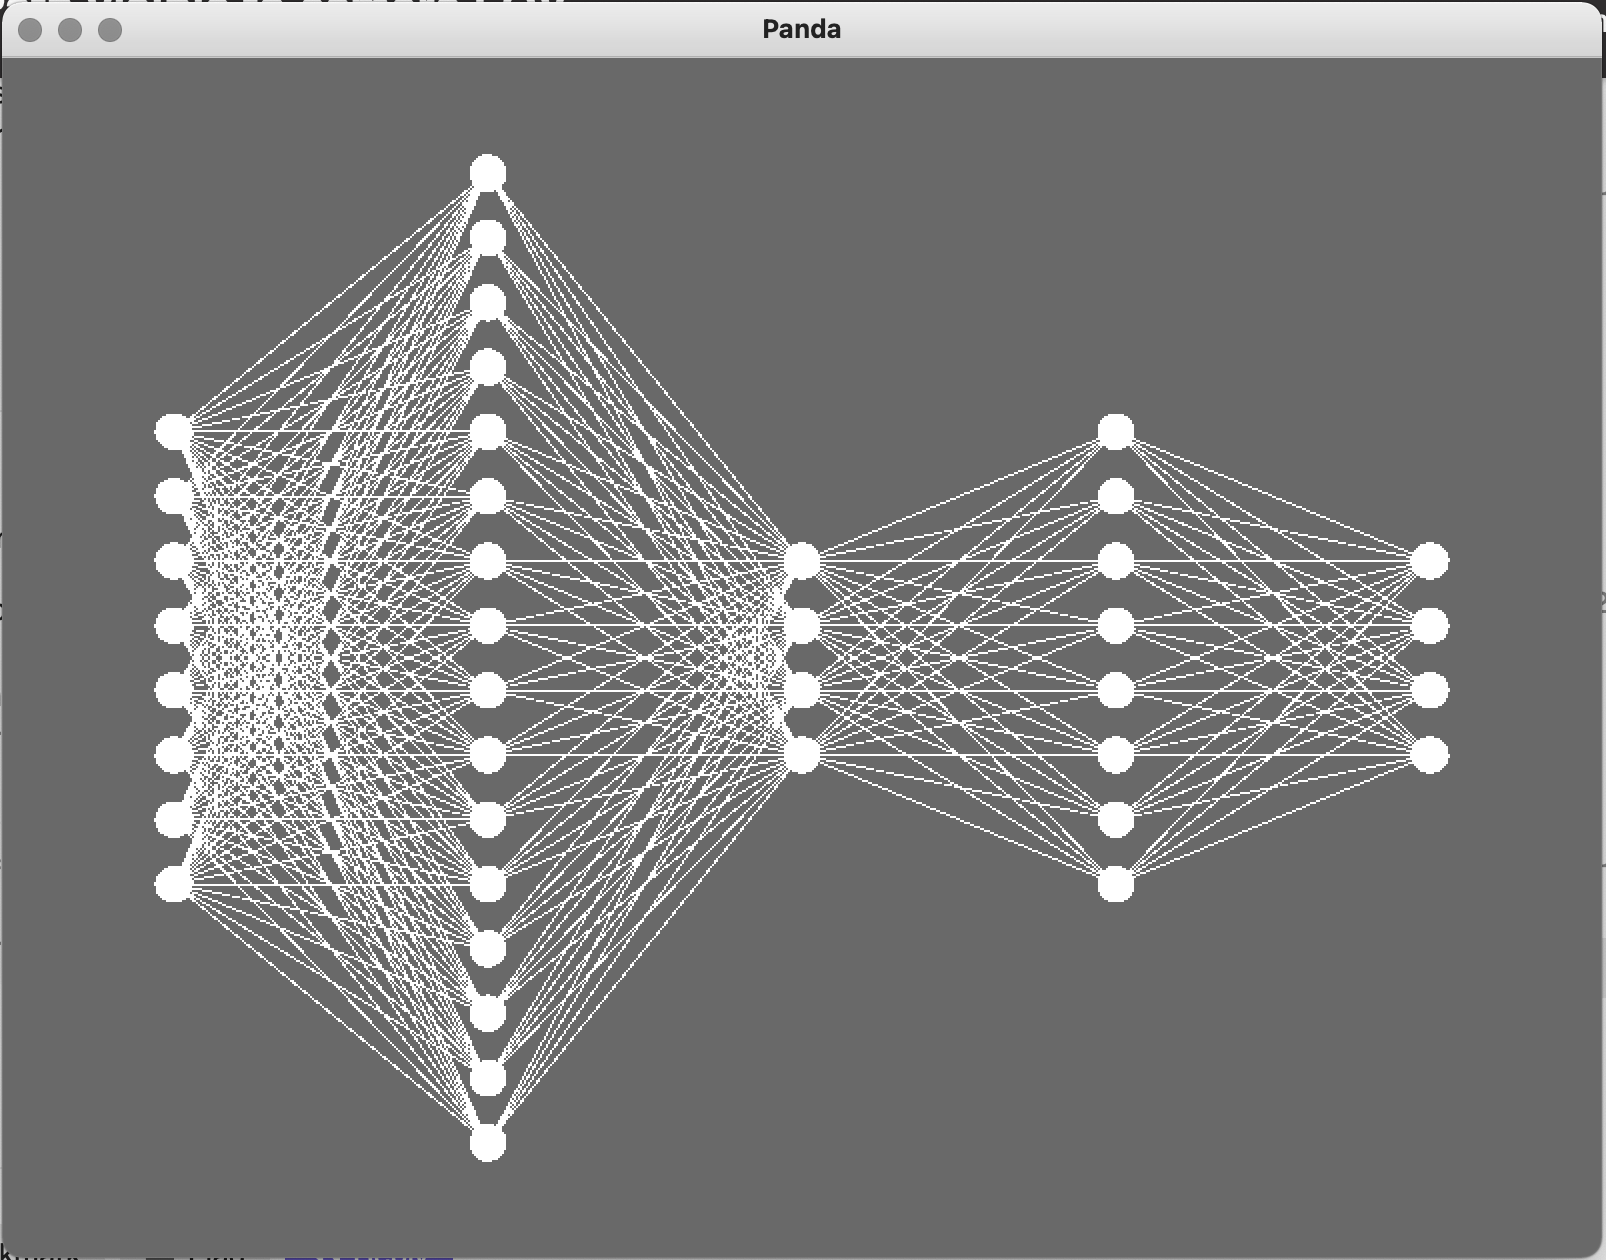
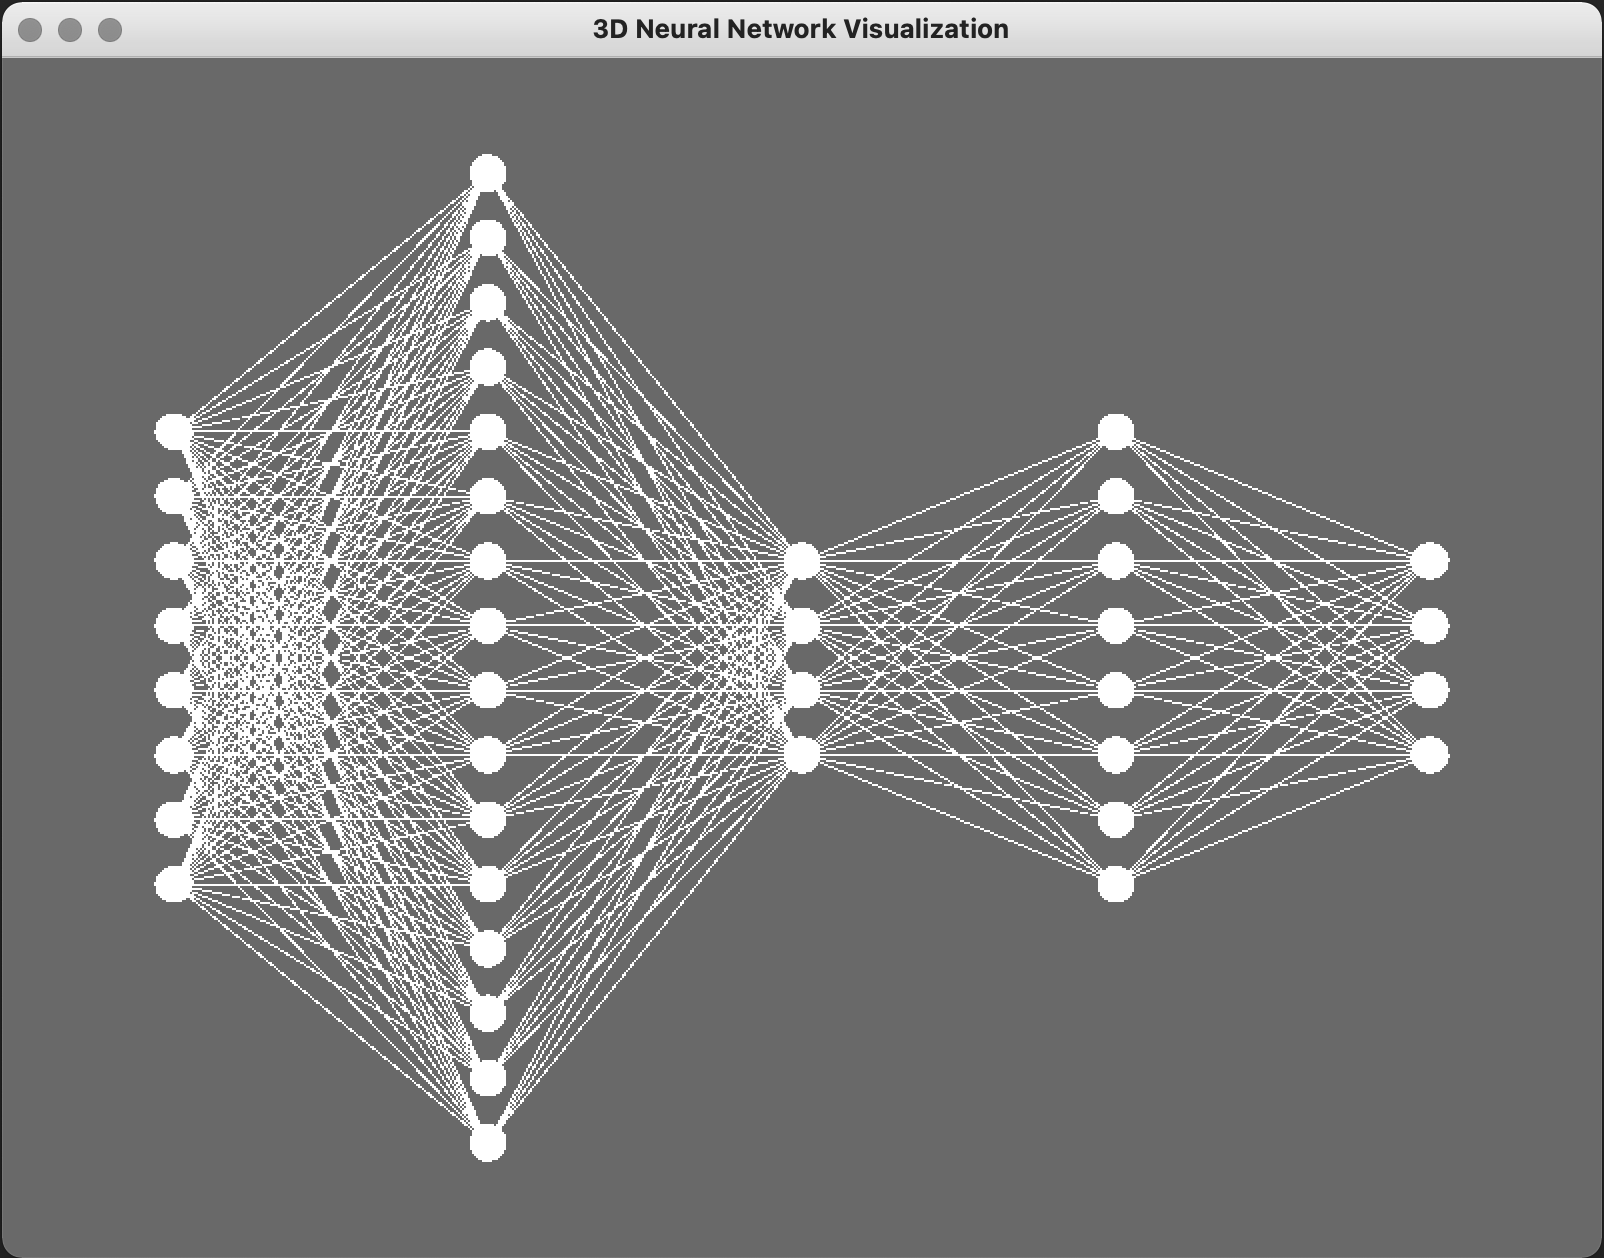
adds title to window. updates basic gif and png.

Changed region(s): [[0.0935, 0.155, 0.904, 0.899], [0.0, 0.0, 1.0, 1.0], [0.3741, 0.0, 0.6234, 0.031]]

diff --git a/Examples/symmetric_stratum_basic.py b/Examples/symmetric_stratum_basic.py
@@ -23,7 +23,7 @@ from typing import List, Tuple
 from math import sin, tan
 
 # Third party
-from panda3d.core import deg2Rad
+from panda3d.core import deg2Rad, WindowProperties
 from panda3d.core import NodePath, LVecBase3f
 from panda3d.core import PointLight, AmbientLight
 from direct.showbase.ShowBase import ShowBase
@@ -118,6 +118,7 @@ if __name__ == '__main__':
 
                 # self explanatory
                 self.center_camera_on_stratum(self.stratum)
+                self.set_window_title("3D Neural Network Visualization")
             else:
                 """
                 Setup with scene lighting and animation
@@ -132,6 +133,7 @@ if __name__ == '__main__':
                 self.center_stratum_on_pivot()
                 self.center_camera_on_stratum(self.center_pivot_node)
                 self.add_light_source_to_node(self.cam)
+                self.set_window_title("3D Neural Network Visualization")
 
                 # begin rotation task
                 self.taskMgr.add(self.rotate_network, "rotate-network")
@@ -148,6 +150,11 @@ if __name__ == '__main__':
             z_length = bounds[1].z - bounds[0].z
             distance = max(x_length, z_length) / tan(deg2Rad(min(fov[0], fov[1])))
             self.cam.setY(-distance)
+
+        def set_window_title(self, title: str):
+            wp = WindowProperties()
+            wp.setTitle(title)
+            self.win.requestProperties(wp)
 
         """
         Animation helpers
